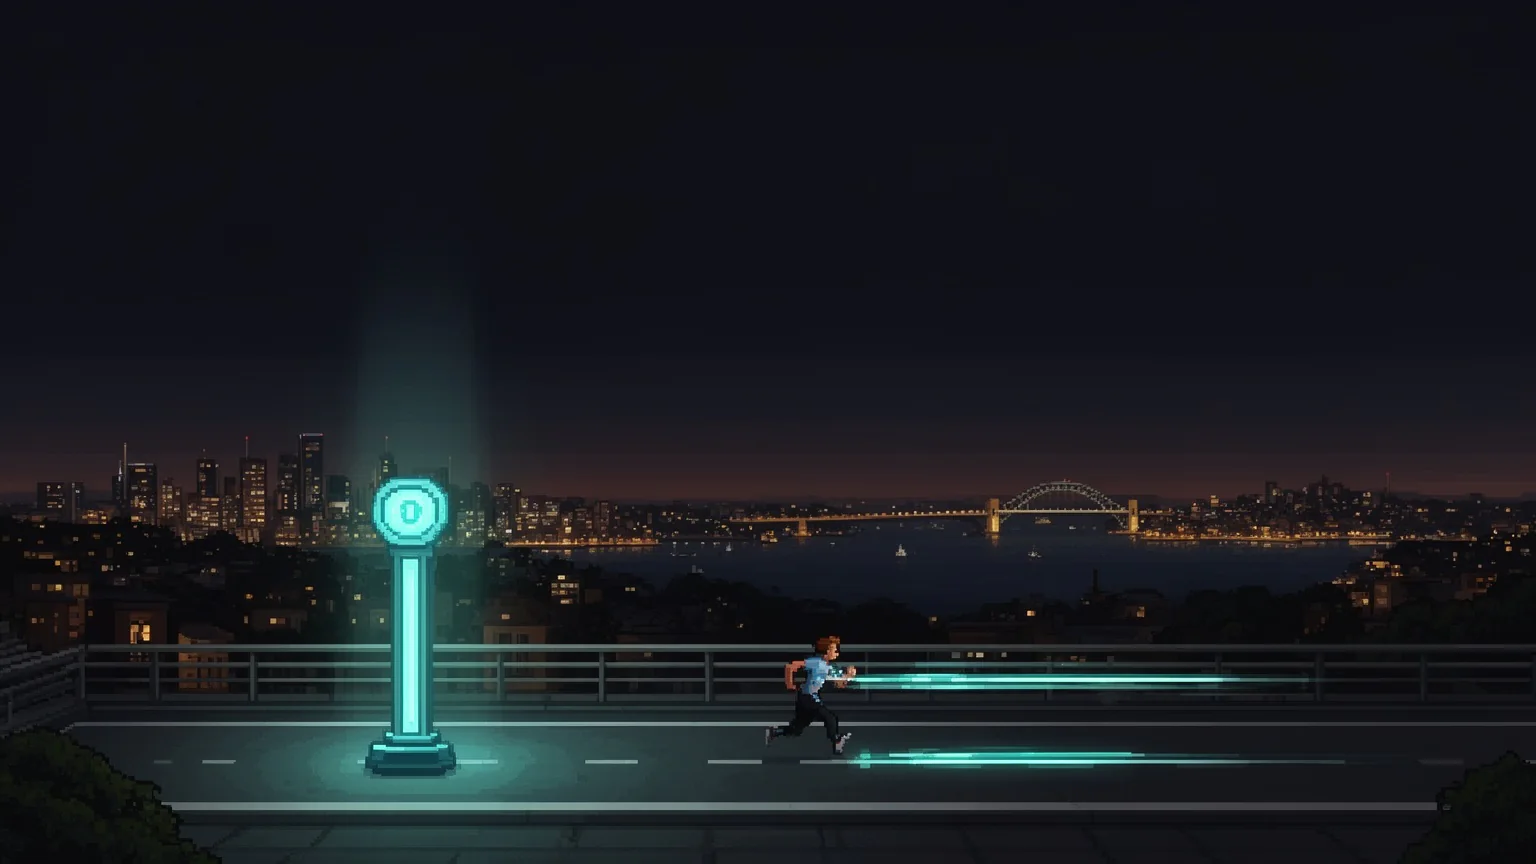
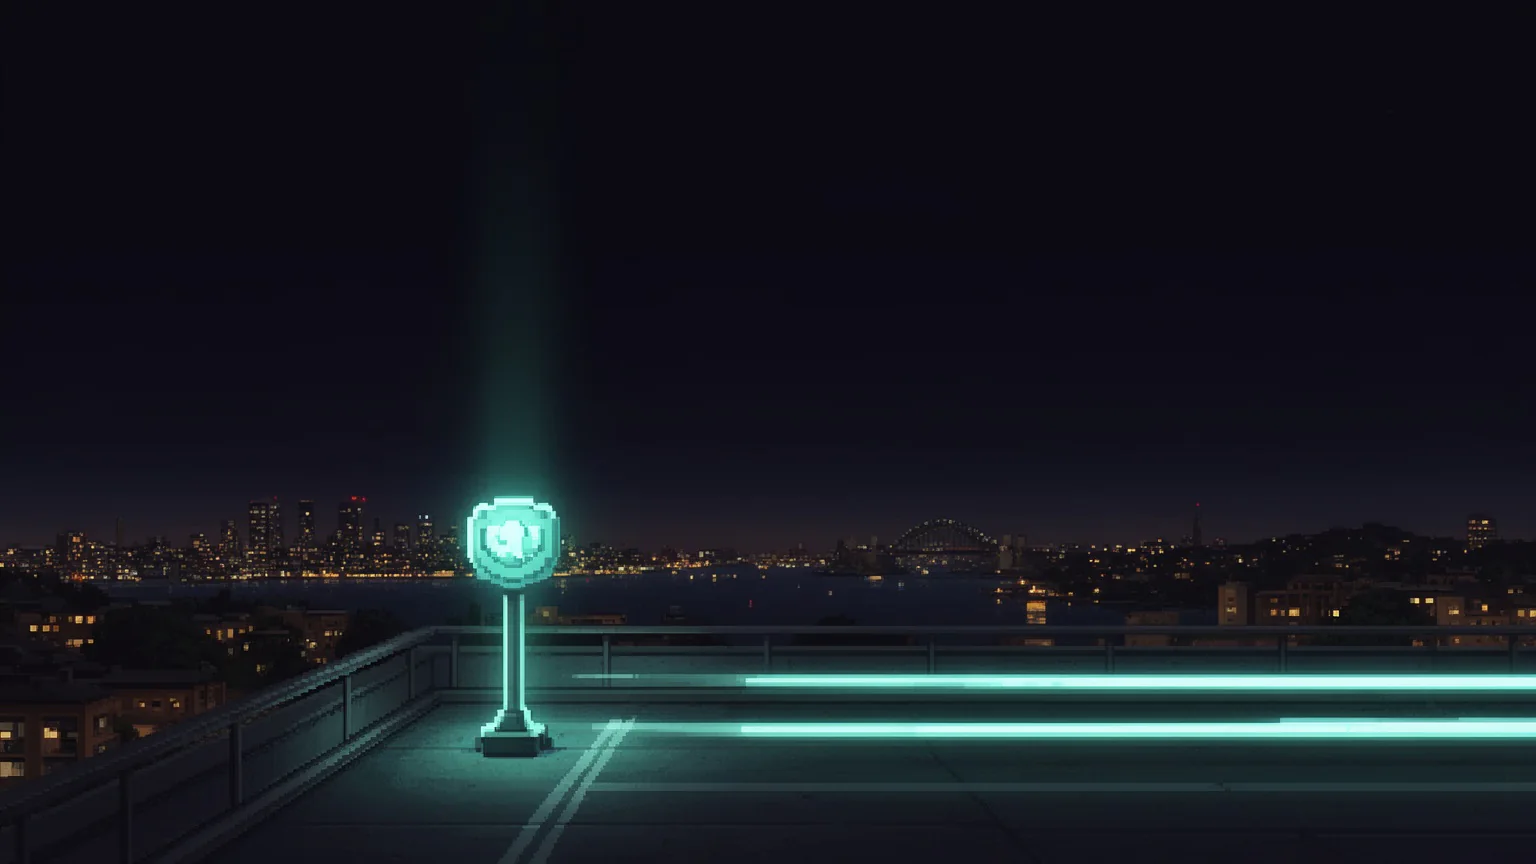
fix(assets): regenerate account-CTA plate figure-free after full asset review
Reviewed all 22 generated assets in page context (images plus mid-play
video frames). 21 fit the design direction; the account-CTA plate had an
off-brand human runner baked in (and the first regeneration attempt baked
the prompt's quoted mood phrase in as literal pixel text — prompt no
longer quotes any phrase and the negative prompt bans figures and
lettering). Final plate: save-point beacon on an empty rooftop, Harbour
Bridge skyline, pure light-trail effects, clean sky for the CTA copy.

Also bias the city-hero atmosphere crop toward the skyline for short/wide
viewports, and refresh the asset manifest.

Changed region(s): [[0.0, 0.375, 1.0, 1.0]]

diff --git a/src/app/(public)/trapman/trapman.css b/src/app/(public)/trapman/trapman.css
@@ -380,6 +380,9 @@
   width: 100%;
   height: 100%;
   object-fit: cover;
+  /* The generated plates keep their skyline in the lower half — bias the
+     crop downward so the hero's top band shows city, not empty sky. */
+  object-position: center 72%;
   filter: saturate(1.12) contrast(1.04);
   pointer-events: none;
 }
